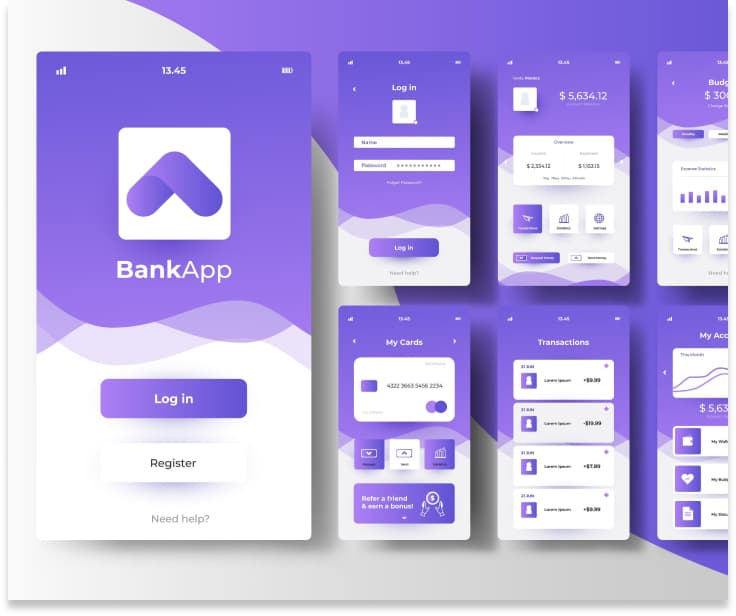
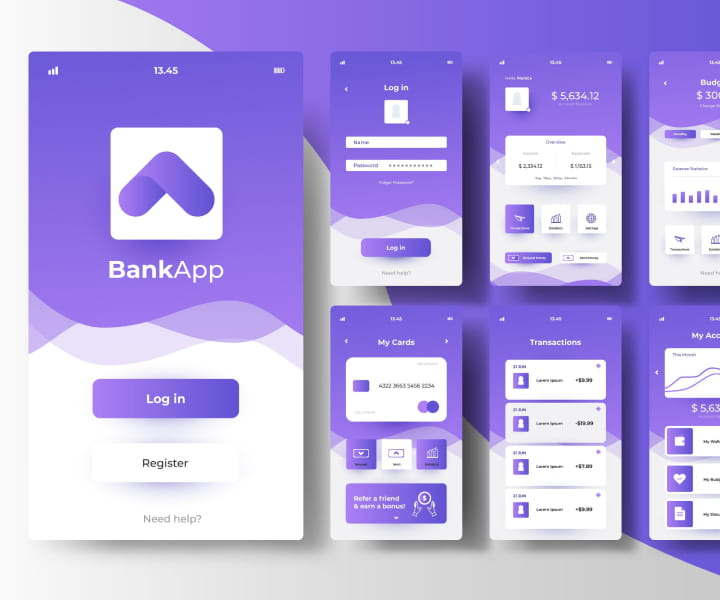
remove shadow from portfolio-images

diff --git a/css/styles.css b/css/styles.css
@@ -251,9 +251,7 @@ img {
 .portfolio-list-item {
   width: calc((100% - 96 px) / 3);
 }
-.portfolio-list-img {
-  box-shadow: 0 4px 4px 0 rgba(0, 0, 0, 0.25);
-}
+
 .portfolio-list-text-wrapper {
   padding: 32px 16px;
   border-bottom: 1px solid #e7e9fc;
